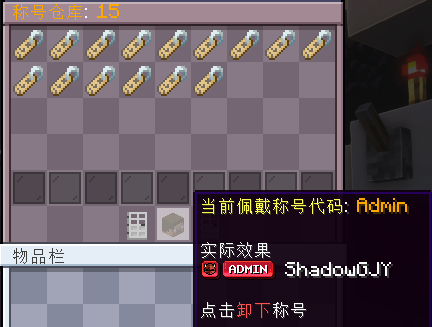
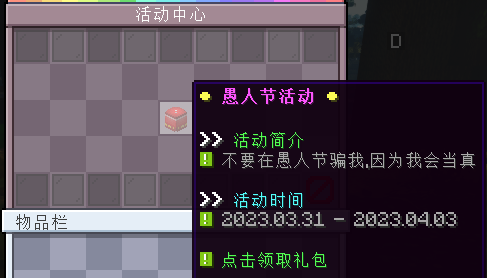
GITBOOK-53: change request with no subject merged in GitBook

diff --git a/SUMMARY.md b/SUMMARY.md
@@ -41,6 +41,8 @@
 * [🪧 服务器指令](fu-wu-qi-zhi-ling.md)
 * [🏢 公共建筑](gong-gong-jian-zhu.md)
 * [📒 更新日志](geng-xin-ri-zhi/README.md)
+  * [2023.04月更新日志](geng-xin-ri-zhi/2023.04-yue-geng-xin-ri-zhi/README.md)
+    * [🧾 4.2日更新日志(v1.3.1)](geng-xin-ri-zhi/2023.04-yue-geng-xin-ri-zhi/4.2-ri-geng-xin-ri-zhi-v1.3.1.md)
   * [2023.03月更新日志](geng-xin-ri-zhi/2023.03-yue-geng-xin-ri-zhi/README.md)
     * [🧾 3.28日更新日志(v1.3.0)](geng-xin-ri-zhi/2023.03-yue-geng-xin-ri-zhi/3.28-ri-geng-xin-ri-zhi-v1.3.0.md)
     * [🧾 3.27日更新日志 ( v1.2.9 )](geng-xin-ri-zhi/2023.03-yue-geng-xin-ri-zhi/3.26-ri-geng-xin-ri-zhi-v1.2.9.md)

diff --git a/README.md b/README.md
@@ -32,6 +32,6 @@
 
 ### 📔 最新公告
 
-{% content-ref url="geng-xin-ri-zhi/2023.03-yue-geng-xin-ri-zhi/3.28-ri-geng-xin-ri-zhi-v1.3.0.md" %}
-[3.28-ri-geng-xin-ri-zhi-v1.3.0.md](geng-xin-ri-zhi/2023.03-yue-geng-xin-ri-zhi/3.28-ri-geng-xin-ri-zhi-v1.3.0.md)
+{% content-ref url="geng-xin-ri-zhi/2023.04-yue-geng-xin-ri-zhi/4.2-ri-geng-xin-ri-zhi-v1.3.1.md" %}
+[4.2-ri-geng-xin-ri-zhi-v1.3.1.md](geng-xin-ri-zhi/2023.04-yue-geng-xin-ri-zhi/4.2-ri-geng-xin-ri-zhi-v1.3.1.md)
 {% endcontent-ref %}

diff --git a/you-xi-nei-rong/yu-le-xi-tong/ge-ren-cheng-hao.md b/you-xi-nei-rong/yu-le-xi-tong/ge-ren-cheng-hao.md
@@ -8,4 +8,4 @@
 
 在游戏中聊天框输入 **`/tags`** 可以打开个人称号的界面哦，在这个页面你可以查看、佩戴或者取下你的称号。
 
-<figure><img src="../../.gitbook/assets/image.png" alt=""><figcaption></figcaption></figure>
+<figure><img src="../../.gitbook/assets/image (4).png" alt=""><figcaption></figcaption></figure>

diff --git a/geng-xin-ri-zhi/2023.04-yue-geng-xin-ri-zhi/4.2-ri-geng-xin-ri-zhi-v1.3.1.md b/geng-xin-ri-zhi/2023.04-yue-geng-xin-ri-zhi/4.2-ri-geng-xin-ri-zhi-v1.3.1.md
@@ -1,0 +1,16 @@
+# 🧾 4.2日更新日志(v1.3.1)
+
+## ✨ **全新内容**
+
+****
+
+### **一、遇人？愚人！**
+
+活动菜单界面更新愚人节礼包
+
+<figure><img src="../../.gitbook/assets/image.png" alt=""><figcaption></figcaption></figure>
+
+**限时开放，过期无效......**
+
+
+

diff --git a/geng-xin-ri-zhi/2023.04-yue-geng-xin-ri-zhi/README.md b/geng-xin-ri-zhi/2023.04-yue-geng-xin-ri-zhi/README.md
@@ -1,0 +1,2 @@
+# 2023.04月更新日志
+
